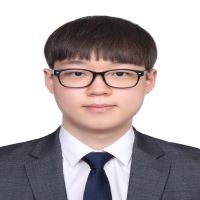
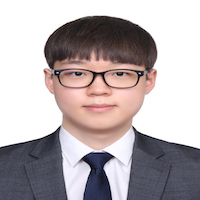
rebuilding site 2022년 9월  8일 목요일 14시 25분 35초 KST

diff --git a/docs/people/joonwoolee/index.html b/docs/people/joonwoolee/index.html
@@ -63,6 +63,22 @@
 
 
 
+
+<meta property="og:locale" content="ko">
+<meta property="og:site_name" content="연세대학교 대기과학과">
+<meta property="og:title" content="이준우">
+<meta property="og:type" content="website">
+<meta property="og:url" content="https://atmos.yonsei.ac.kr/people/joonwoolee/" />
+<meta property="og:description" content="Site template made by devcows using hugo">
+<meta property="og:image" content="https://atmos.yonsei.ac.kr/img/people/joonwoolee.jpeg">
+<meta property="og:image:type" content="image/jpeg">
+
+
+
+  <meta property="og:image:width" content="200">
+  <meta property="og:image:height" content="200">
+
+
 <meta property="og:updated_time" content="2018-03-24T13:39:46&#43;0200">
 
 
@@ -70,6 +86,8 @@
 <meta name="twitter:card" content="summary">
 
 <meta name="twitter:title" content="이준우">
+
+<meta name="twitter:image" content="https://atmos.yonsei.ac.kr/img/people/joonwoolee.jpeg">
 
 <meta name="twitter:description" content="Site template made by devcows using hugo">
 
@@ -323,7 +341,7 @@
                             </div>
                             <div class="col-sm-5">
                                 <div class="center-block" style="width:90%; max-width:200px;"><a href="https://atmos.yonsei.ac.kr/people/joonwoolee/">
-                                    <img src="https://atmos.yonsei.ac.kr/img/people/joonwoolee.jpg" alt="" class="img-responsive"></a>
+                                    <img src="https://atmos.yonsei.ac.kr/img/people/joonwoolee.jpeg" alt="" class="img-responsive"></a>
                                 </div>
                             </div>
                         </div>

diff --git a/docs/people/page/5/index.html b/docs/people/page/5/index.html
@@ -466,7 +466,7 @@
                                     
                                     <div class="center-block" style="width:95%; max-width:200px;">
                                         <a href="https://atmos.yonsei.ac.kr/people/joonwoolee/">
-                                        <img src="https://atmos.yonsei.ac.kr/img/people/joonwoolee.jpg" alt="" class="img-responsive" style="margin: 0 auto;">
+                                        <img src="https://atmos.yonsei.ac.kr/img/people/joonwoolee.jpeg" alt="" class="img-responsive" style="margin: 0 auto;">
                                         <center/a>
                                     </div>
                                     <h4><a href="https://atmos.yonsei.ac.kr/people/joonwoolee/" style="color:dimgray">이준우</a></h4>

diff --git a/docs/teams/graduate/page/3/index.html b/docs/teams/graduate/page/3/index.html
@@ -594,7 +594,7 @@
                                     
                                     <div class="center-block" style="width:95%; max-width:200px;">
                                         <a href="https://atmos.yonsei.ac.kr/people/joonwoolee/">
-                                        <img src="https://atmos.yonsei.ac.kr/img/people/joonwoolee.jpg" alt="" class="img-responsive" style="margin: 0 auto;">
+                                        <img src="https://atmos.yonsei.ac.kr/img/people/joonwoolee.jpeg" alt="" class="img-responsive" style="margin: 0 auto;">
                                         <center/a>
                                     </div>
                                     <h4><a href="https://atmos.yonsei.ac.kr/people/joonwoolee/" style="color:dimgray">이준우</a></h4>

diff --git a/content/people/joonwoolee.md b/content/people/joonwoolee.md
@@ -2,7 +2,7 @@
 title = "이준우"
 date = "2018-03-24T13:39:46+02:00"
 teams = ["graduate"]
-banner = "img/people/joonwoolee.jpg"
+banner = "img/people/joonwoolee.jpeg"
 email = "joonhi@yonsei.ac.kr"
 job = "석사과정"
 phone = "02-2123-7608"
